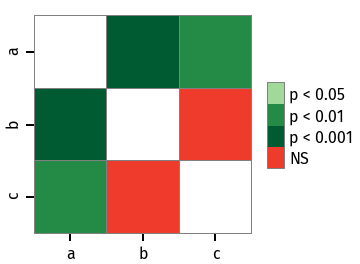
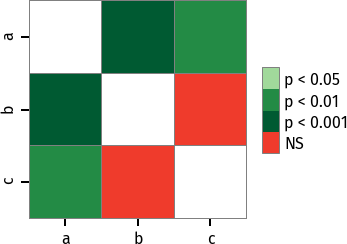
Custom cmap added as an example

Changed region(s): [[0.0, 0.0, 1.0, 1.0], [0.5764, 0.9467, 0.634, 1.0], [0.1729, 0.9467, 0.2305, 1.0]]

diff --git a/README.rst b/README.rst
@@ -89,9 +89,18 @@ Significance plots
 P values may be plotted using a heatmap:
 
   >>> pc = sp.posthoc_conover(x, val_col='values', group_col='groups')
-  >>> sp.sign_plot(pc, square=True, cbar_ax_bbox=[0.80, 0.35, 0.04, 0.3])
+  >>> heatmap_args = {'linewidths': 0.25, 'linecolor': '0.5', 'clip_on': False, 'square': True, 'cbar_ax_bbox': [0.80, 0.35, 0.04, 0.3]}
+  >>> sp.sign_plot(pc, **heatmap_args)
 
 .. image:: images/plot-conover.png
+
+Custom colormap can be applied to a plot:
+
+  >>> pc = sp.posthoc_conover(x, val_col='values', group_col='groups')
+  >>> # Format: diagonal, non-significant, p<0.001, p<0.01, p<0.05
+  >>> cmap = ['1', '#fb6a4a',  '#08306b',  '#4292c6', '#c6dbef']
+  >>> heatmap_args = {'cmap': cmap, 'linewidths': 0.25, 'linecolor': '0.5', 'clip_on': False, 'square': True, 'cbar_ax_bbox': [0.80, 0.35, 0.04, 0.3]}
+  >>> sp.sign_plot(pc, **heatmap_args)
 
 Credits
 -------
